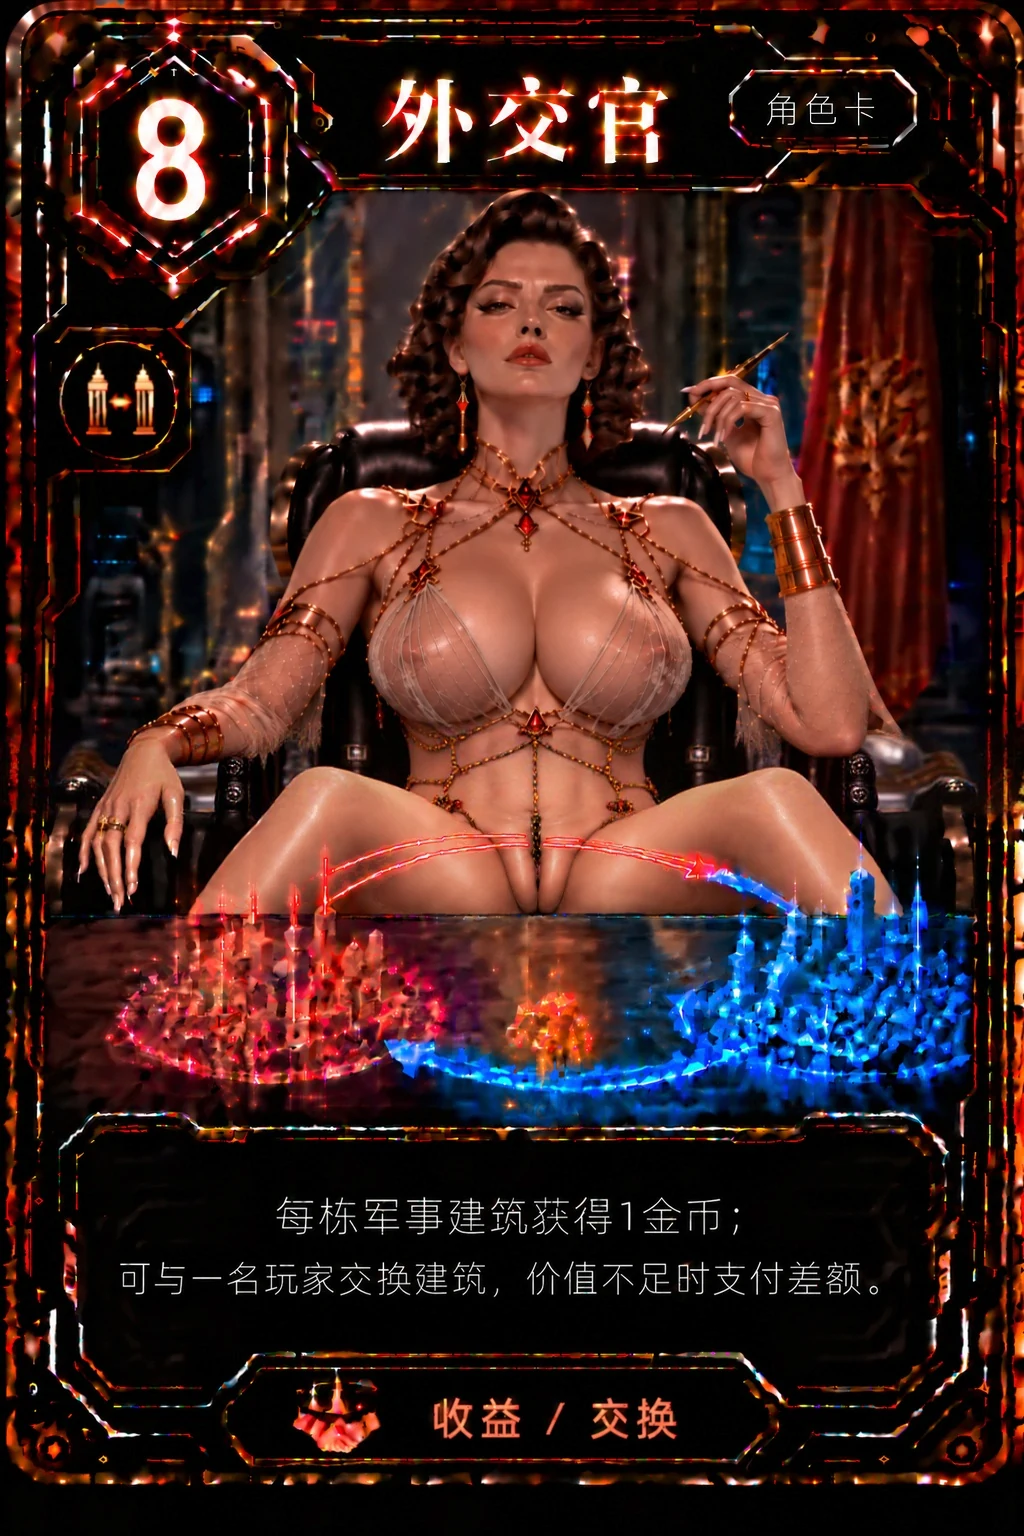
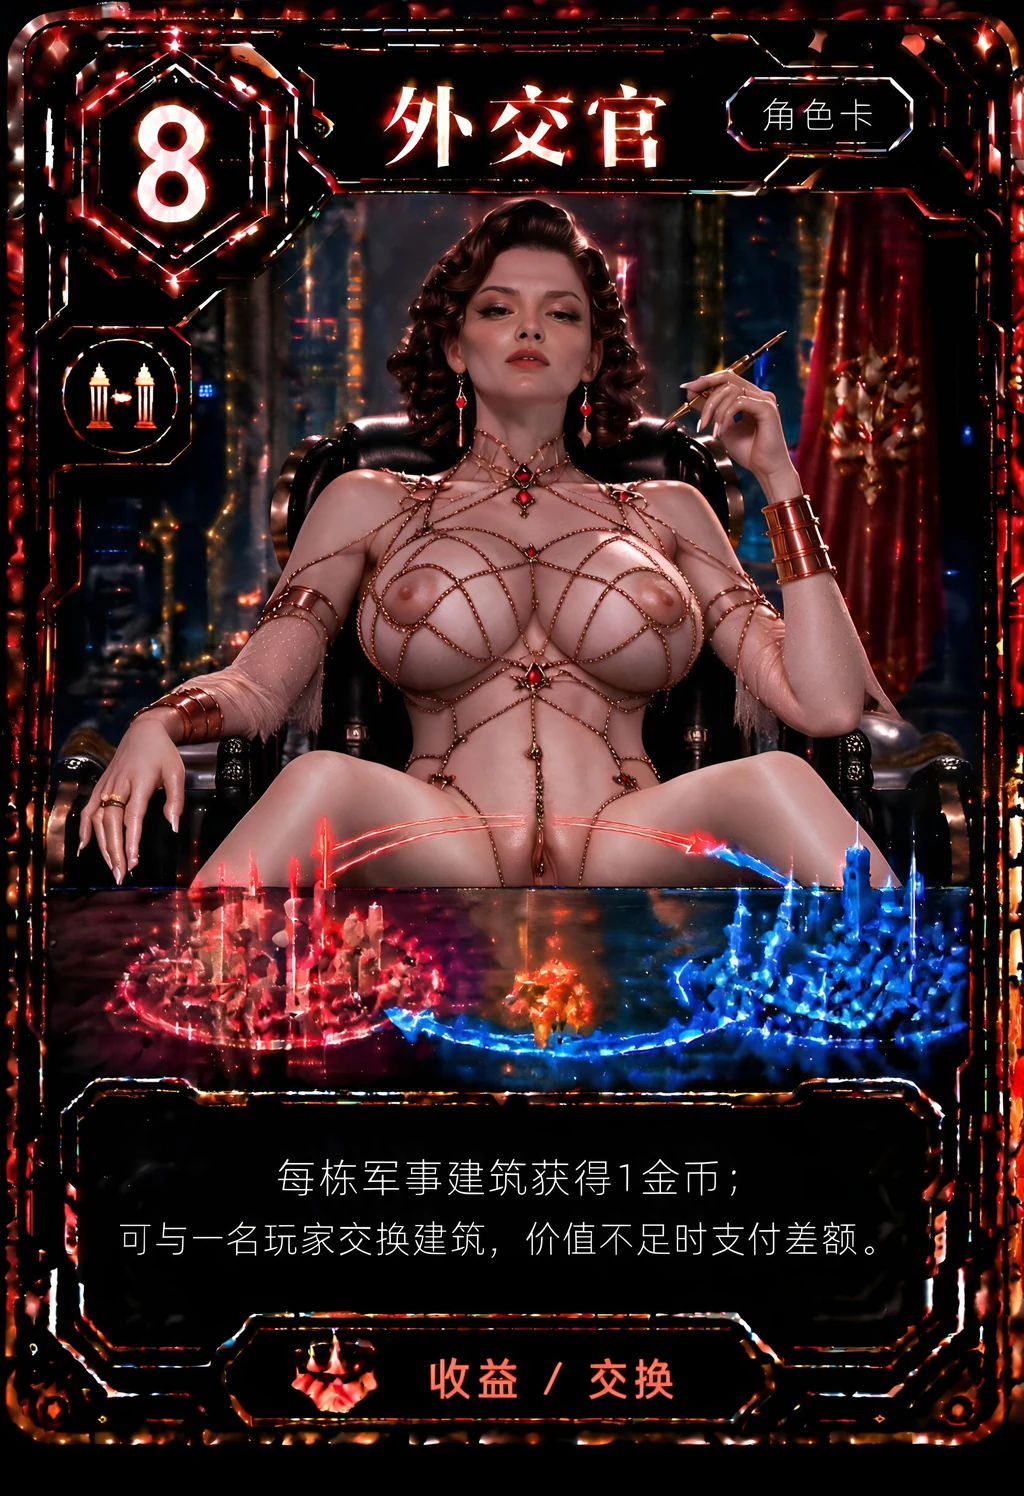
feat(theme): 更新外交官角色卡立绘

diff --git a/public/themes/neon/manifest.js b/public/themes/neon/manifest.js
@@ -22,11 +22,11 @@
   ];
 
   function variants(folder, key) {
-    // 墓地卡图曾把建造费用 5 错印成能力支付费用 1，勒索者、法师、主教和生意人卡图已更新，
+    // 墓地卡图曾把建造费用 5 错印成能力支付费用 1，勒索者、法师、主教、生意人和外交官卡图已更新，
     // 魔术师恢复为原卡图；
     // 单独版本化，让已安装 PWA 绕过旧图片的 HTTP / Service Worker 缓存。
     const versioned = (folder === 'districts' && key === 'graveyard') ||
-      (folder === 'roles' && (key === 'blackmailer' || key === 'magician' || key === 'wizard' || key === 'bishop' || key === 'spy' || key === 'businessman'));
+      (folder === 'roles' && (key === 'blackmailer' || key === 'magician' || key === 'wizard' || key === 'bishop' || key === 'spy' || key === 'businessman' || key === 'diplomat'));
     const version = folder === 'roles' && key === 'magician'
       ? '?v=3'
       : (folder === 'roles' && key === 'bishop'
